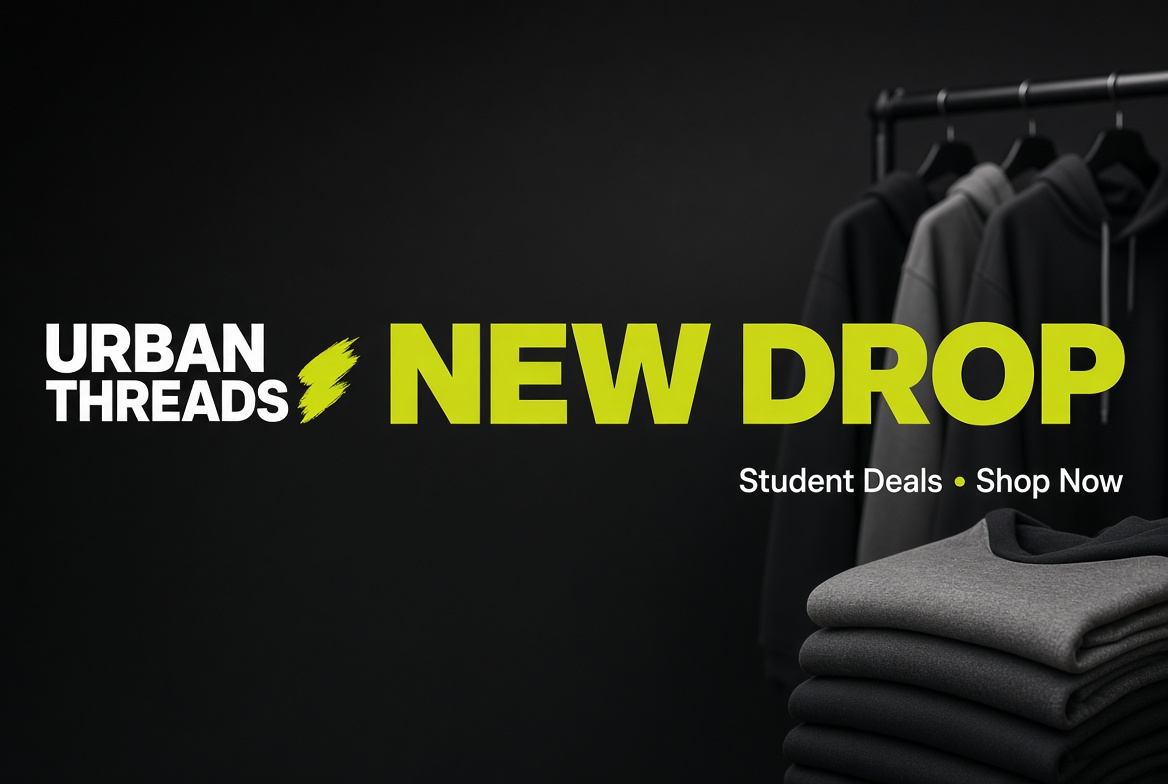
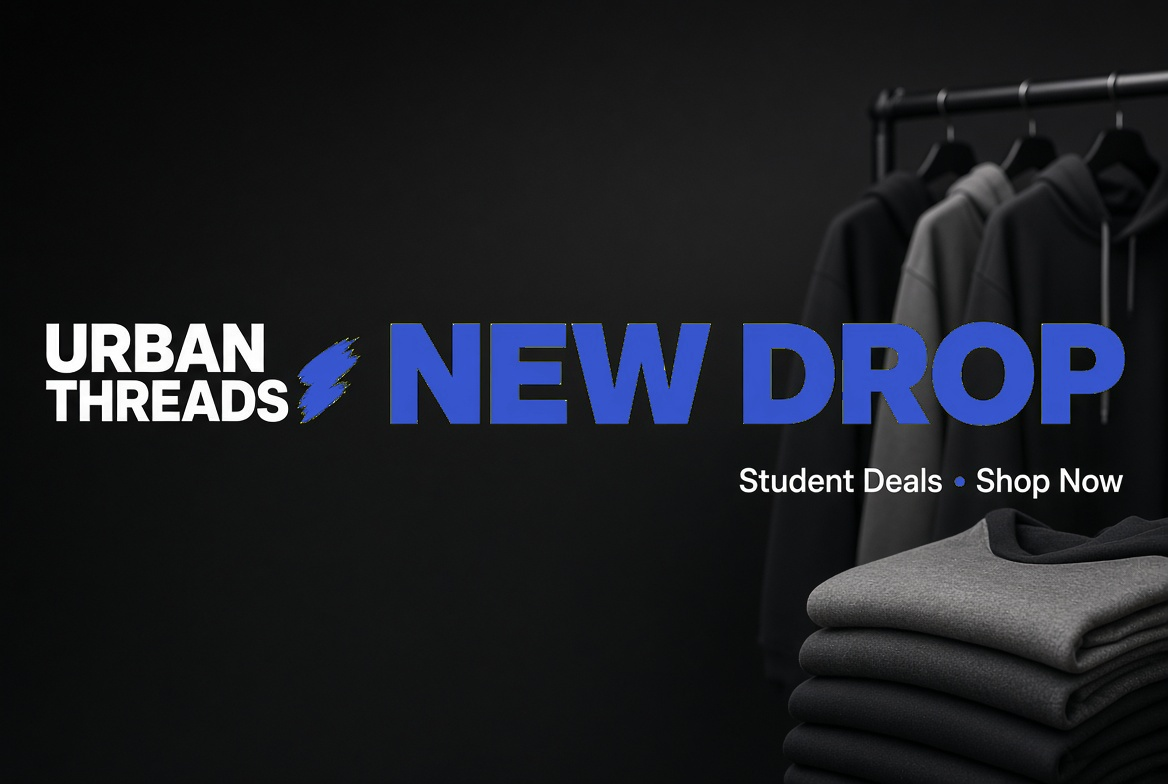
Add files via upload

Changed region(s): [[0.2466, 0.398, 0.9863, 0.551]]

diff --git a/index.html b/index.html
@@ -8,16 +8,16 @@
 <link href="https://fonts.googleapis.com/css2?family=Archivo+Black&family=Inter:wght@400;500;600;700;800&display=swap" rel="stylesheet">
 <style>
 @import url('https://fonts.googleapis.com/css2?family=Inter:wght@300;400;500;600&family=Manrope:wght@400;500;600;700&display=swap');
-:root{--black:#050505;--ink:#0b0b0b;--panel:#111;--white:#f4f4f1;--muted:#9b9b96;--line:rgba(255,255,255,.14);--lime:#c8ff3d;--red:#d9d9d4}
-*{box-sizing:border-box;margin:0;padding:0}html{scroll-behavior:smooth}body{background:var(--black);color:var(--white);font-family:Inter,Arial,sans-serif;overflow-x:hidden}a{color:inherit;text-decoration:none}img{display:block}button,input{font:inherit}.wrap{max-width:1440px;margin:auto;padding:0 42px}.accent{color:var(--lime)}
+:root{--black:#050505;--ink:#0b0b0b;--panel:#111;--white:#f4f4f1;--muted:#9b9b96;--line:rgba(255,255,255,.14);--blue:#3b5bdb;--red:#d9d9d4}
+*{box-sizing:border-box;margin:0;padding:0}html{scroll-behavior:smooth}body{background:var(--black);color:var(--white);font-family:Inter,Arial,sans-serif;overflow-x:hidden}a{color:inherit;text-decoration:none}img{display:block}button,input{font:inherit}.wrap{max-width:1440px;margin:auto;padding:0 42px}.accent{color:var(--blue)}
 h1,h2,h3,.display{font-family:Manrope,Arial,sans-serif;font-weight:500;line-height:.95;letter-spacing:-.045em;text-transform:none}
 /* ENIMAL-INSPIRED STREETWEAR LAYOUT */
-.announcement{height:34px;background:var(--lime);color:#050505;display:flex;align-items:center;overflow:hidden;white-space:nowrap;font-size:9px;font-weight:800;letter-spacing:.16em;text-transform:uppercase;border-bottom:1px solid #000}
+.announcement{height:34px;background:var(--blue);color:#fff;display:flex;align-items:center;overflow:hidden;white-space:nowrap;font-size:9px;font-weight:800;letter-spacing:.16em;text-transform:uppercase;border-bottom:1px solid #000}
 .marquee-track{display:flex;min-width:max-content;animation:marquee 22s linear infinite}
 .marquee-track span{padding-right:55px}
 @keyframes marquee{from{transform:translateX(0)}to{transform:translateX(-50%)}}
 .category-bar{display:flex;gap:25px;align-items:center;justify-content:center;padding:13px 20px;background:#080808;border-bottom:1px solid var(--line);font-size:9px;text-transform:uppercase;letter-spacing:.14em;overflow:auto;white-space:nowrap}
-.category-bar a{color:#aaa}.category-bar a:hover{color:var(--lime)}
+.category-bar a{color:#aaa}.category-bar a:hover{color:var(--blue)}
 .hero{min-height:calc(100vh - 119px)}
 .hero-art img{object-position:50% 17%;filter:brightness(.67) contrast(1.04)}
 .hero-art:after{background:linear-gradient(90deg,rgba(0,0,0,.55),rgba(0,0,0,.08) 65%),linear-gradient(0deg,rgba(0,0,0,.62),transparent 55%)}
@@ -28,7 +28,7 @@ h1,h2,h3,.display{font-family:Manrope,Arial,sans-serif;font-weight:500;line-heig
 .editorial-card:after{content:"";position:absolute;inset:0;background:linear-gradient(0deg,rgba(0,0,0,.75),transparent 55%)}
 .editorial-copy{position:absolute;z-index:2;left:30px;right:30px;bottom:30px}.editorial-copy small{font-size:8px;letter-spacing:.2em;text-transform:uppercase;color:#ccc}.editorial-copy h3{font-size:clamp(35px,4vw,62px);margin:10px 0 16px;color:#fff}.editorial-copy a{font-size:9px;letter-spacing:.15em;text-transform:uppercase;border-bottom:1px solid #aaa;padding-bottom:5px}
 .look-section{display:grid;grid-template-columns:1.45fr .55fr;gap:2px;background:#252525}.look-image{min-height:620px;position:relative;overflow:hidden}.look-image img{width:100%;height:100%;object-fit:cover;object-position:center;filter:brightness(.78)}.look-copy{background:#0d0d0d;padding:50px 38px;display:flex;flex-direction:column;justify-content:flex-end}.look-copy h2{font-size:clamp(40px,5vw,75px);margin-bottom:20px}.look-copy p{font-size:12px;line-height:1.8;color:#888;max-width:360px;margin-bottom:25px}
-.music-player{position:fixed;right:20px;bottom:72px;width:280px;z-index:121;background:rgba(10,10,10,.97);border:1px solid rgba(255,255,255,.2);box-shadow:0 18px 50px rgba(0,0,0,.5);backdrop-filter:blur(18px);display:grid;grid-template-columns:82px 1fr;gap:14px;padding:11px;transition:right .35s ease,transform .35s ease,opacity .35s ease}.music-player.hidden{transform:translateY(18px);opacity:0;pointer-events:none}.music-cover{width:82px;height:82px;object-fit:cover}.music-meta{min-width:0;display:flex;flex-direction:column;justify-content:center}.music-kicker{font-size:7px;letter-spacing:.18em;color:#888;text-transform:uppercase;margin-bottom:5px}.music-title{font-size:11px;font-weight:600;white-space:nowrap;overflow:hidden;text-overflow:ellipsis}.music-artist{font-size:8px;color:#888;margin-top:3px}.music-controls{display:flex;align-items:center;gap:9px;margin-top:10px}.music-small{background:none;border:0;color:#ddd;font-size:8px;letter-spacing:.1em;cursor:pointer;padding:0}.music-small:hover{color:var(--lime)}.music-progress{height:2px;background:#333;flex:1;overflow:hidden;cursor:pointer}.music-progress span{display:block;width:0;height:100%;background:var(--lime)}.music-player.playing .music-cover{animation:coverPulse 5s linear infinite}.music-player.playing .music-kicker:after{content:' • PLAYING';color:var(--lime)}@keyframes coverPulse{0%{transform:scale(1)}50%{transform:scale(1.025)}100%{transform:scale(1)}}.music-toggle{position:fixed;right:20px;bottom:20px;z-index:122;background:rgba(8,8,8,.96);border:1px solid #555;color:#fff;padding:11px 15px;font-size:9px;letter-spacing:.14em;text-transform:uppercase;cursor:pointer;backdrop-filter:blur(12px);transition:right .35s ease}.music-toggle:hover{border-color:var(--lime);color:var(--lime)}.music-toggle .dot{display:inline-block;width:6px;height:6px;border-radius:50%;background:#666;margin-right:8px}.music-toggle.on .dot{background:var(--lime);box-shadow:0 0 10px var(--lime)}.cart-drawer.active ~ .music-player{right:440px}.cart-drawer.active ~ .music-toggle{right:440px}
+.music-player{position:fixed;right:20px;bottom:72px;width:280px;z-index:121;background:rgba(10,10,10,.97);border:1px solid rgba(255,255,255,.2);box-shadow:0 18px 50px rgba(0,0,0,.5);backdrop-filter:blur(18px);display:grid;grid-template-columns:82px 1fr;gap:14px;padding:11px;transition:right .35s ease,transform .35s ease,opacity .35s ease}.music-player.hidden{transform:translateY(18px);opacity:0;pointer-events:none}.music-cover{width:82px;height:82px;object-fit:cover}.music-meta{min-width:0;display:flex;flex-direction:column;justify-content:center}.music-kicker{font-size:7px;letter-spacing:.18em;color:#888;text-transform:uppercase;margin-bottom:5px}.music-title{font-size:11px;font-weight:600;white-space:nowrap;overflow:hidden;text-overflow:ellipsis}.music-artist{font-size:8px;color:#888;margin-top:3px}.music-controls{display:flex;align-items:center;gap:9px;margin-top:10px}.music-small{background:none;border:0;color:#ddd;font-size:8px;letter-spacing:.1em;cursor:pointer;padding:0}.music-small:hover{color:var(--blue)}.music-progress{height:2px;background:#333;flex:1;overflow:hidden;cursor:pointer}.music-progress span{display:block;width:0;height:100%;background:var(--blue)}.music-player.playing .music-cover{animation:coverPulse 5s linear infinite}.music-player.playing .music-kicker:after{content:' • PLAYING';color:var(--blue)}@keyframes coverPulse{0%{transform:scale(1)}50%{transform:scale(1.025)}100%{transform:scale(1)}}.music-toggle{position:fixed;right:20px;bottom:20px;z-index:122;background:rgba(8,8,8,.96);border:1px solid #555;color:#fff;padding:11px 15px;font-size:9px;letter-spacing:.14em;text-transform:uppercase;cursor:pointer;backdrop-filter:blur(12px);transition:right .35s ease}.music-toggle:hover{border-color:var(--blue);color:var(--blue)}.music-toggle .dot{display:inline-block;width:6px;height:6px;border-radius:50%;background:#666;margin-right:8px}.music-toggle.on .dot{background:var(--blue);box-shadow:0 0 10px var(--blue)}.cart-drawer.active ~ .music-player{right:440px}.cart-drawer.active ~ .music-toggle{right:440px}
 /* PAGE PRELOADER */
 html.is-loading,body.is-loading{overflow:hidden;height:100%}
 .page-loader{position:fixed;inset:0;z-index:999;background:var(--black);display:flex;flex-direction:column;align-items:center;justify-content:center;gap:20px;transition:opacity .6s ease,visibility .6s ease}
@@ -45,7 +45,7 @@ html.is-loading,body.is-loading{overflow:hidden;height:100%}
 .look-hotspot .dot{position:relative;width:28px;height:28px;border-radius:50%;background:rgba(5,5,5,.8);border:1.5px solid #fff;color:#fff;font-size:11px;font-weight:700;cursor:pointer;display:flex;align-items:center;justify-content:center;transition:background .2s,border-color .2s,color .2s}
 .look-hotspot .dot:before{content:'';position:absolute;inset:-9px;border-radius:50%;border:1px solid rgba(255,255,255,.45);animation:hotspotPulse 2.4s ease-out infinite}
 @keyframes hotspotPulse{0%{transform:scale(.75);opacity:.8}100%{transform:scale(1.7);opacity:0}}
-.look-hotspot:hover .dot,.look-hotspot.active .dot{background:var(--lime);color:#000;border-color:var(--lime)}
+.look-hotspot:hover .dot,.look-hotspot.active .dot{background:var(--blue);color:#fff;border-color:var(--blue)}
 .look-hotspot .hotspot-card{position:absolute;top:38px;left:50%;transform:translateX(-50%);width:196px;background:#0c0c0c;border:1px solid var(--line);padding:15px 17px;box-shadow:0 20px 45px rgba(0,0,0,.55);opacity:0;pointer-events:none;transition:opacity .2s ease}
 .look-hotspot.active .hotspot-card{opacity:1;pointer-events:auto}
 .hotspot-card h4{font-size:11px;font-weight:600;margin-bottom:5px}
@@ -53,33 +53,33 @@ html.is-loading,body.is-loading{overflow:hidden;height:100%}
 .hotspot-card .h-actions{display:flex;gap:14px;font-size:9px;letter-spacing:.12em;text-transform:uppercase;border-top:1px solid var(--line);padding-top:11px}
 .hotspot-card .h-actions a,.hotspot-card .h-actions button{cursor:pointer;border:0;background:none;color:#ccc;padding:0;font-size:9px;letter-spacing:.12em;text-transform:uppercase;font-family:Inter}
 .hotspot-card .h-actions .h-primary{color:#fff;border-bottom:1px solid #fff}
-.hotspot-card .h-actions a:hover,.hotspot-card .h-actions .h-primary:hover{color:var(--lime);border-color:var(--lime)}
+.hotspot-card .h-actions a:hover,.hotspot-card .h-actions .h-primary:hover{color:var(--blue);border-color:var(--blue)}
 @media(min-width:901px){.collection-grid .product-card:nth-child(5){grid-column:2}.collection-grid .product-card:nth-child(6){grid-column:3}}
 @media(max-width:850px){.editorial-duo,.look-section{grid-template-columns:1fr}.editorial-card{min-height:520px}.look-image{min-height:470px}.category-bar{justify-content:flex-start}.hero-copy{padding-left:24px;padding-right:24px}.wrap,.section{padding-left:24px;padding-right:24px}}
 /* NAV — minimal luxury/editorial */
 .site-nav{height:72px;position:sticky;top:0;z-index:80;display:grid;grid-template-columns:1fr auto 1fr;align-items:center;padding:0 28px;background:rgba(5,5,5,.88);backdrop-filter:blur(18px);border-bottom:1px solid var(--line)}
-.brand{display:flex;align-items:center;gap:11px}.brand-logo-img{width:43px;height:31px;object-fit:cover}.brand .word{font-size:12px;font-weight:600;letter-spacing:.16em}.nav-links{display:flex;gap:27px;justify-content:center;font-size:11px;text-transform:uppercase;letter-spacing:.13em;color:#c8c8c3}.nav-links a{transition:opacity .2s}.nav-links a:hover{opacity:.55}.nav-actions{display:flex;justify-content:flex-end;align-items:center;gap:20px}.icon-btn{width:19px;height:19px;color:var(--white);cursor:pointer;position:relative}.cart-count{position:absolute;top:-8px;right:-9px;background:var(--lime);color:#000;font-size:8px;font-weight:800;width:15px;height:15px;border-radius:50%;display:flex;align-items:center;justify-content:center}.btn-outline{border:0;border-bottom:1px solid #aaa;padding:3px 0;border-radius:0;font-size:10px;letter-spacing:.13em;background:transparent;color:var(--white);cursor:pointer}.btn-outline:hover{border-color:var(--lime);color:var(--lime)}
+.brand{display:flex;align-items:center;gap:11px}.brand-logo-img{width:43px;height:31px;object-fit:cover}.brand .word{font-size:12px;font-weight:600;letter-spacing:.16em}.nav-links{display:flex;gap:27px;justify-content:center;font-size:11px;text-transform:uppercase;letter-spacing:.13em;color:#c8c8c3}.nav-links a{transition:opacity .2s}.nav-links a:hover{opacity:.55}.nav-actions{display:flex;justify-content:flex-end;align-items:center;gap:20px}.icon-btn{width:19px;height:19px;color:var(--white);cursor:pointer;position:relative}.cart-count{position:absolute;top:-8px;right:-9px;background:var(--blue);color:#fff;font-size:8px;font-weight:800;width:15px;height:15px;border-radius:50%;display:flex;align-items:center;justify-content:center}.btn-outline{border:0;border-bottom:1px solid #aaa;padding:3px 0;border-radius:0;font-size:10px;letter-spacing:.13em;background:transparent;color:var(--white);cursor:pointer}.btn-outline:hover{border-color:var(--blue);color:var(--blue)}
 /* HERO */
-.hero{min-height:calc(100vh - 72px);position:relative;display:flex;align-items:flex-end;overflow:hidden;background:#080808}.hero-art{position:absolute;inset:0;width:100%;height:100%;z-index:0}.hero-art img{width:100%;height:100%;object-fit:cover;object-position:50% 22%;filter:brightness(.54) contrast(1.08);transform:none;border-radius:0;box-shadow:none}.hero-art:after{content:"";position:absolute;inset:0;background:linear-gradient(90deg,rgba(0,0,0,.78) 0%,rgba(0,0,0,.32) 48%,rgba(0,0,0,.18) 100%),linear-gradient(0deg,rgba(0,0,0,.72) 0%,transparent 48%)}.hero-copy{position:relative;z-index:3;max-width:730px;padding:0 42px 72px}.hero-eyebrow{display:block;background:none;color:#ddd;font-size:10px;letter-spacing:.2em;text-transform:uppercase;padding:0;margin-bottom:22px;font-family:Inter;font-weight:500}.hero h1{font-size:clamp(58px,8vw,126px);font-weight:400;margin-bottom:22px;color:#fff}.hero-sub{font-size:15px;line-height:1.65;color:#ddd;max-width:470px;margin-bottom:29px}.btn-primary{display:inline-flex;align-items:center;gap:12px;background:var(--white);color:#050505;font-size:10px;text-transform:uppercase;letter-spacing:.14em;padding:14px 22px;border:0;border-radius:0;cursor:pointer;font-weight:600}.btn-primary:hover{background:var(--lime)}.scroll-hint{margin-top:55px;font-size:9px;letter-spacing:.2em;color:#aaa}.photo-label{position:absolute;z-index:4;right:35px;bottom:28px;font-size:9px;letter-spacing:.18em;color:#ddd}.halftone-corner{display:none}
+.hero{min-height:calc(100vh - 72px);position:relative;display:flex;align-items:flex-end;overflow:hidden;background:#080808}.hero-art{position:absolute;inset:0;width:100%;height:100%;z-index:0}.hero-art img{width:100%;height:100%;object-fit:cover;object-position:50% 22%;filter:brightness(.54) contrast(1.08);transform:none;border-radius:0;box-shadow:none}.hero-art:after{content:"";position:absolute;inset:0;background:linear-gradient(90deg,rgba(0,0,0,.78) 0%,rgba(0,0,0,.32) 48%,rgba(0,0,0,.18) 100%),linear-gradient(0deg,rgba(0,0,0,.72) 0%,transparent 48%)}.hero-copy{position:relative;z-index:3;max-width:730px;padding:0 42px 72px}.hero-eyebrow{display:block;background:none;color:#ddd;font-size:10px;letter-spacing:.2em;text-transform:uppercase;padding:0;margin-bottom:22px;font-family:Inter;font-weight:500}.hero h1{font-size:clamp(58px,8vw,126px);font-weight:400;margin-bottom:22px;color:#fff}.hero-sub{font-size:15px;line-height:1.65;color:#ddd;max-width:470px;margin-bottom:29px}.btn-primary{display:inline-flex;align-items:center;gap:12px;background:var(--white);color:#050505;font-size:10px;text-transform:uppercase;letter-spacing:.14em;padding:14px 22px;border:0;border-radius:0;cursor:pointer;font-weight:600}.btn-primary:hover{background:var(--blue);color:#fff}.scroll-hint{margin-top:55px;font-size:9px;letter-spacing:.2em;color:#aaa}.photo-label{position:absolute;z-index:4;right:35px;bottom:28px;font-size:9px;letter-spacing:.18em;color:#ddd}.halftone-corner{display:none}
 /* EDITORIAL STRIP */
 .features{display:grid;grid-template-columns:repeat(4,1fr);background:#090909;border-top:1px solid var(--line);border-bottom:1px solid var(--line)}.feature{background:#090909;padding:28px 30px 30px;min-height:128px;border-right:1px solid var(--line);display:flex;flex-direction:column;gap:9px}.feature:last-child{border-right:0}.feature .icon{display:none}.feature h3{font-family:Inter;font-size:10px;text-transform:uppercase;letter-spacing:.16em;font-weight:500;color:#e7e7e2}.feature p{font-size:12px;color:#8e8e89;line-height:1.5}
 /* SECTIONS */
 .section{padding:118px 42px}.section-tag{font-size:9px;text-transform:uppercase;letter-spacing:.2em;color:#858580;margin-bottom:17px}.section-title{font-size:clamp(40px,5vw,72px);font-weight:400;margin-bottom:19px}.section-desc{font-size:13px;color:#8e8e89;line-height:1.7;max-width:470px;margin-bottom:54px}
 /* PRODUCT GRID */
-.collection-grid{display:grid;grid-template-columns:repeat(4,1fr);gap:2px;background:#252525}.product-card{background:#0c0c0c;border:0;border-radius:0;overflow:hidden;display:flex;flex-direction:column}.product-art{position:relative;height:430px;background:#141414;display:block;overflow:hidden}.product-art img{width:100%;height:100%;object-fit:cover;object-position:center top;filter:brightness(.86);transition:transform .6s ease,filter .4s}.product-card:hover .product-art img{transform:scale(1.035);filter:brightness(1)}.badge{position:absolute;top:15px;left:15px;font-size:8px;padding:0;background:none;border:0;border-radius:0;letter-spacing:.16em;color:#eee;font-weight:500;z-index:2}.badge.new,.badge.best,.badge.limited{background:none;color:#eee}.product-info{padding:17px 14px 24px;display:grid;grid-template-columns:1fr auto;gap:5px 12px}.product-info h3{font-family:Inter;text-transform:none;font-weight:500;font-size:12px;letter-spacing:0}.product-info .color{font-size:10px;color:#777;grid-column:1}.product-info .price{font-family:Inter;font-size:11px;margin:0;grid-column:2;grid-row:1/3;align-self:start}.product-actions{grid-column:1/-1;display:flex;gap:15px;margin-top:13px;border-top:1px solid var(--line);padding-top:12px}.btn-mini-primary,.btn-mini-outline{flex:0 0 auto;padding:0;border:0;border-bottom:1px solid #777;border-radius:0;background:none;color:#ddd;font-size:9px;letter-spacing:.13em;font-weight:500}.btn-mini-primary{border-color:#ddd;color:#fff}.btn-mini-primary:hover,.btn-mini-outline:hover{border-color:var(--lime);color:var(--lime)}
+.collection-grid{display:grid;grid-template-columns:repeat(4,1fr);gap:2px;background:#252525}.product-card{background:#0c0c0c;border:0;border-radius:0;overflow:hidden;display:flex;flex-direction:column}.product-art{position:relative;height:430px;background:#141414;display:block;overflow:hidden}.product-art img{width:100%;height:100%;object-fit:cover;object-position:center top;filter:brightness(.86);transition:transform .6s ease,filter .4s}.product-card:hover .product-art img{transform:scale(1.035);filter:brightness(1)}.badge{position:absolute;top:15px;left:15px;font-size:8px;padding:0;background:none;border:0;border-radius:0;letter-spacing:.16em;color:#eee;font-weight:500;z-index:2}.badge.new,.badge.best,.badge.limited{background:none;color:#eee}.product-info{padding:17px 14px 24px;display:grid;grid-template-columns:1fr auto;gap:5px 12px}.product-info h3{font-family:Inter;text-transform:none;font-weight:500;font-size:12px;letter-spacing:0}.product-info .color{font-size:10px;color:#777;grid-column:1}.product-info .price{font-family:Inter;font-size:11px;margin:0;grid-column:2;grid-row:1/3;align-self:start}.product-actions{grid-column:1/-1;display:flex;gap:15px;margin-top:13px;border-top:1px solid var(--line);padding-top:12px}.btn-mini-primary,.btn-mini-outline{flex:0 0 auto;padding:0;border:0;border-bottom:1px solid #777;border-radius:0;background:none;color:#ddd;font-size:9px;letter-spacing:.13em;font-weight:500}.btn-mini-primary{border-color:#ddd;color:#fff}.btn-mini-primary:hover,.btn-mini-outline:hover{border-color:var(--blue);color:var(--blue)}
 /* ABOUT / EDITORIAL */
-.about{display:grid;grid-template-columns:1.1fr .9fr;gap:90px;align-items:center}.about-art{width:100%;position:relative}.about-art img{width:100%;height:620px;object-fit:cover;object-position:center;border-radius:0;box-shadow:none;filter:brightness(.72)}.about-stamp{position:absolute;bottom:20px;left:20px;font-size:9px;letter-spacing:.18em;line-height:1.5;color:#eee}.about-copy{max-width:520px}.about-copy p{font-size:14px;color:#aaa;line-height:1.85;margin-bottom:19px}.link-cta{display:inline-flex;margin-top:16px;font-size:10px;letter-spacing:.16em;text-transform:uppercase;border-bottom:1px solid #777;padding-bottom:5px}.link-cta:hover{color:var(--lime);border-color:var(--lime)}
+.about{display:grid;grid-template-columns:1.1fr .9fr;gap:90px;align-items:center}.about-art{width:100%;position:relative}.about-art img{width:100%;height:620px;object-fit:cover;object-position:center;border-radius:0;box-shadow:none;filter:brightness(.72)}.about-stamp{position:absolute;bottom:20px;left:20px;font-size:9px;letter-spacing:.18em;line-height:1.5;color:#eee}.about-copy{max-width:520px}.about-copy p{font-size:14px;color:#aaa;line-height:1.85;margin-bottom:19px}.link-cta{display:inline-flex;margin-top:16px;font-size:10px;letter-spacing:.16em;text-transform:uppercase;border-bottom:1px solid #777;padding-bottom:5px}.link-cta:hover{color:var(--blue);border-color:var(--blue)}
 /* CTA */
 .cta-band{text-align:center;padding:150px 32px;background:#0a0a0a;border-top:1px solid var(--line);border-bottom:1px solid var(--line)}.cta-band .section-tag{display:block}.cta-band h2{font-size:clamp(48px,7vw,105px);font-weight:400;margin:14px 0 35px}.cta-band .btn-primary{margin:auto}
 /* MARKETING */
-.marketing-grid{display:grid;grid-template-columns:repeat(3,1fr);gap:2px;background:#252525}.marketing-card{background:#0c0c0c;border:0;border-radius:0;padding:0;display:flex;flex-direction:column;overflow:hidden}.marketing-card .deliverable-thumb{width:100%;height:420px;object-fit:cover;transition:transform .6s ease;filter:brightness(.78)}.marketing-card:hover .deliverable-thumb{transform:scale(1.025);filter:brightness(1)}.deliverable-body{padding:20px 18px 24px}.marketing-card .num{font-size:8px;color:#999;letter-spacing:.18em;margin-bottom:10px}.marketing-card h3{font-family:Inter;text-transform:none;font-weight:500;font-size:13px}.marketing-card p{font-size:11px;color:#777;line-height:1.6;margin-top:7px}.marketing-card .dims{font-size:8px;color:#777;letter-spacing:.12em;margin-top:15px}.marketing-card .view{margin-top:18px;font-size:9px;letter-spacing:.14em;text-transform:uppercase}.marketing-card:hover .view{color:var(--lime)}
+.marketing-grid{display:grid;grid-template-columns:repeat(3,1fr);gap:2px;background:#252525}.marketing-card{background:#0c0c0c;border:0;border-radius:0;padding:0;display:flex;flex-direction:column;overflow:hidden}.marketing-card .deliverable-thumb{width:100%;height:420px;object-fit:cover;transition:transform .6s ease;filter:brightness(.78)}.marketing-card:hover .deliverable-thumb{transform:scale(1.025);filter:brightness(1)}.deliverable-body{padding:20px 18px 24px}.marketing-card .num{font-size:8px;color:#999;letter-spacing:.18em;margin-bottom:10px}.marketing-card h3{font-family:Inter;text-transform:none;font-weight:500;font-size:13px}.marketing-card p{font-size:11px;color:#777;line-height:1.6;margin-top:7px}.marketing-card .dims{font-size:8px;color:#777;letter-spacing:.12em;margin-top:15px}.marketing-card .view{margin-top:18px;font-size:9px;letter-spacing:.14em;text-transform:uppercase}.marketing-card:hover .view{color:var(--blue)}
 /* NEWSLETTER */
 .newsletter{margin:0;padding:95px 42px;background:#0a0a0a;border-top:1px solid var(--line);display:flex;align-items:flex-end;justify-content:space-between;gap:50px}.newsletter h2{font-size:clamp(38px,5vw,66px);font-weight:400;margin-bottom:14px}.newsletter p{font-size:12px;color:#888;line-height:1.7;max-width:430px}.newsletter-form{display:flex;gap:0;min-width:420px}.newsletter-form input{width:280px;padding:14px 15px;border:0;border-bottom:1px solid #666;border-radius:0;background:transparent;color:#fff;font-size:12px}.newsletter-form .btn-primary{padding:14px 18px}
 /* FOOTER */
-footer{border-top:1px solid var(--line);padding:58px 42px 28px;background:#050505}.footer-grid{display:grid;grid-template-columns:2fr 1fr 1fr;gap:50px;margin-bottom:58px}.footer-logo-img{width:44px;height:32px;object-fit:cover}.footer-brand .word{font-size:12px;letter-spacing:.16em;margin:15px 0 9px}.footer-brand p{font-size:11px;color:#777;line-height:1.6;max-width:270px}footer h4{font-size:8px;letter-spacing:.18em;color:#777;margin-bottom:16px}footer ul{list-style:none;display:flex;flex-direction:column;gap:10px}footer ul a{font-size:11px;color:#bbb}footer ul a:hover{color:var(--lime)}.footer-bottom{display:none}
+footer{border-top:1px solid var(--line);padding:58px 42px 28px;background:#050505}.footer-grid{display:grid;grid-template-columns:2fr 1fr 1fr;gap:50px;margin-bottom:58px}.footer-logo-img{width:44px;height:32px;object-fit:cover}.footer-brand .word{font-size:12px;letter-spacing:.16em;margin:15px 0 9px}.footer-brand p{font-size:11px;color:#777;line-height:1.6;max-width:270px}footer h4{font-size:8px;letter-spacing:.18em;color:#777;margin-bottom:16px}footer ul{list-style:none;display:flex;flex-direction:column;gap:10px}footer ul a{font-size:11px;color:#bbb}footer ul a:hover{color:var(--blue)}.footer-bottom{display:none}
 /* MODALS */
-.overlay{position:fixed;inset:0;background:rgba(0,0,0,.78);backdrop-filter:blur(8px);display:none;align-items:center;justify-content:center;z-index:100}.overlay.active{display:flex}.modal{background:#0d0d0d;border:1px solid var(--line);border-radius:0;width:390px;padding:38px 32px;position:relative}.modal .close{position:absolute;top:17px;right:20px;cursor:pointer;color:#777;font-size:18px}.modal h2{font-size:31px;font-weight:400;margin-bottom:9px}.modal .sub{font-size:11px;color:#777;line-height:1.5;margin-bottom:25px}.modal label{display:block;font-size:8px;letter-spacing:.15em;color:#777;margin-bottom:6px;text-transform:uppercase}.modal .field{width:100%;padding:12px 0;margin-bottom:17px;border:0;border-bottom:1px solid #444;border-radius:0;background:transparent;color:#fff;font-size:13px}.modal .switch{margin-top:18px;font-size:11px;color:#777;text-align:center}.modal .switch span{color:var(--lime);font-weight:600;cursor:pointer}.size-options{display:grid;grid-template-columns:repeat(3,1fr);gap:2px;margin-bottom:22px}.size-opt{border:1px solid #333;padding:12px 0;text-align:center;font-size:11px;cursor:pointer}.size-opt.selected{background:var(--lime);color:#000;border-color:var(--lime)}.cart-drawer{position:fixed;top:0;right:-440px;width:420px;height:100%;background:#0b0b0b;border-left:1px solid var(--line);z-index:110;transition:right .35s ease;display:flex;flex-direction:column;padding:30px 26px}.cart-drawer.active{right:0}.cart-header{display:flex;justify-content:space-between;align-items:center;margin-bottom:24px}.cart-items{flex:1;overflow-y:auto;display:flex;flex-direction:column;gap:14px}.cart-empty{color:#777;font-size:12px;text-align:center;margin-top:60px}.cart-item{display:flex;gap:12px;border-bottom:1px solid var(--line);padding-bottom:14px}.cart-item svg{width:44px;height:50px;flex-shrink:0;color:var(--lime)}.cart-item .name{font-size:12px;font-weight:500}.cart-item .meta{font-size:10px;color:#777}.cart-total{display:flex;justify-content:space-between;font-size:12px;font-weight:600;padding-top:20px;border-top:1px solid var(--line);margin-top:18px}.toast{position:fixed;bottom:25px;left:50%;transform:translateX(-50%) translateY(15px);background:#f4f4f1;color:#050505;padding:11px 18px;font-size:10px;letter-spacing:.08em;opacity:0;pointer-events:none;transition:.25s;z-index:150}.toast.show{opacity:1;transform:translateX(-50%) translateY(0)}
-.menu-panel{position:fixed;inset:0;background:rgba(5,5,5,.97);z-index:75;display:none;align-items:stretch}.menu-panel.active{display:flex}.menu-panel-inner{width:100%;padding:28px 42px 50px;display:flex;flex-direction:column}.menu-panel-head{display:flex;justify-content:space-between;align-items:center;font-size:9px;letter-spacing:.18em;color:#777;margin-bottom:80px}.menu-panel-head button{border:0;background:none;color:#eee;font-size:9px;letter-spacing:.16em;cursor:pointer}.menu-panel-inner>a{font-family:Manrope,Arial,sans-serif;font-size:clamp(38px,6vw,84px);font-weight:400;letter-spacing:-.04em;padding:12px 0;border-bottom:1px solid #222}.menu-panel-inner>a:hover{color:var(--lime);padding-left:12px}@media(max-width:560px){.cart-drawer.active ~ .music-player{right:20px;bottom:76px;width:calc(100% - 40px)}.cart-drawer.active ~ .music-toggle{right:20px;bottom:20px}.menu-panel-inner{padding:22px 20px 40px}.menu-panel-head{margin-bottom:45px}.menu-panel-inner>a{font-size:40px}}
+.overlay{position:fixed;inset:0;background:rgba(0,0,0,.78);backdrop-filter:blur(8px);display:none;align-items:center;justify-content:center;z-index:100}.overlay.active{display:flex}.modal{background:#0d0d0d;border:1px solid var(--line);border-radius:0;width:390px;padding:38px 32px;position:relative}.modal .close{position:absolute;top:17px;right:20px;cursor:pointer;color:#777;font-size:18px}.modal h2{font-size:31px;font-weight:400;margin-bottom:9px}.modal .sub{font-size:11px;color:#777;line-height:1.5;margin-bottom:25px}.modal label{display:block;font-size:8px;letter-spacing:.15em;color:#777;margin-bottom:6px;text-transform:uppercase}.modal .field{width:100%;padding:12px 0;margin-bottom:17px;border:0;border-bottom:1px solid #444;border-radius:0;background:transparent;color:#fff;font-size:13px}.modal .switch{margin-top:18px;font-size:11px;color:#777;text-align:center}.modal .switch span{color:var(--blue);font-weight:600;cursor:pointer}.size-options{display:grid;grid-template-columns:repeat(3,1fr);gap:2px;margin-bottom:22px}.size-opt{border:1px solid #333;padding:12px 0;text-align:center;font-size:11px;cursor:pointer}.size-opt.selected{background:var(--blue);color:#fff;border-color:var(--blue)}.cart-drawer{position:fixed;top:0;right:-440px;width:420px;height:100%;background:#0b0b0b;border-left:1px solid var(--line);z-index:110;transition:right .35s ease;display:flex;flex-direction:column;padding:30px 26px}.cart-drawer.active{right:0}.cart-header{display:flex;justify-content:space-between;align-items:center;margin-bottom:24px}.cart-items{flex:1;overflow-y:auto;display:flex;flex-direction:column;gap:14px}.cart-empty{color:#777;font-size:12px;text-align:center;margin-top:60px}.cart-item{display:flex;gap:12px;border-bottom:1px solid var(--line);padding-bottom:14px}.cart-item svg{width:44px;height:50px;flex-shrink:0;color:var(--blue)}.cart-item .name{font-size:12px;font-weight:500}.cart-item .meta{font-size:10px;color:#777}.cart-total{display:flex;justify-content:space-between;font-size:12px;font-weight:600;padding-top:20px;border-top:1px solid var(--line);margin-top:18px}.toast{position:fixed;bottom:25px;left:50%;transform:translateX(-50%) translateY(15px);background:#f4f4f1;color:#050505;padding:11px 18px;font-size:10px;letter-spacing:.08em;opacity:0;pointer-events:none;transition:.25s;z-index:150}.toast.show{opacity:1;transform:translateX(-50%) translateY(0)}
+.menu-panel{position:fixed;inset:0;background:rgba(5,5,5,.97);z-index:75;display:none;align-items:stretch}.menu-panel.active{display:flex}.menu-panel-inner{width:100%;padding:28px 42px 50px;display:flex;flex-direction:column}.menu-panel-head{display:flex;justify-content:space-between;align-items:center;font-size:9px;letter-spacing:.18em;color:#777;margin-bottom:80px}.menu-panel-head button{border:0;background:none;color:#eee;font-size:9px;letter-spacing:.16em;cursor:pointer}.menu-panel-inner>a{font-family:Manrope,Arial,sans-serif;font-size:clamp(38px,6vw,84px);font-weight:400;letter-spacing:-.04em;padding:12px 0;border-bottom:1px solid #222}.menu-panel-inner>a:hover{color:var(--blue);padding-left:12px}@media(max-width:560px){.cart-drawer.active ~ .music-player{right:20px;bottom:76px;width:calc(100% - 40px)}.cart-drawer.active ~ .music-toggle{right:20px;bottom:20px}.menu-panel-inner{padding:22px 20px 40px}.menu-panel-head{margin-bottom:45px}.menu-panel-inner>a{font-size:40px}}
 @media(max-width:900px){.site-nav{grid-template-columns:1fr auto}.nav-links{display:none}.nav-actions{gap:13px}.nav-actions .icon-btn:nth-child(1),.nav-actions .icon-btn:nth-child(2){display:none}.hero{min-height:78vh}.hero-copy{padding:0 24px 48px}.hero h1{font-size:64px}.features{grid-template-columns:repeat(2,1fr)}.feature:nth-child(2){border-right:0}.collection-grid{grid-template-columns:repeat(2,1fr)}.product-art{height:360px}.about{grid-template-columns:1fr;gap:50px}.about-art img{height:520px}.marketing-grid{grid-template-columns:1fr}.marketing-card .deliverable-thumb{height:auto;max-height:620px}.newsletter{display:block;padding:75px 28px}.newsletter-form{margin-top:35px;min-width:0;width:100%}.newsletter-form input{flex:1}.footer-grid{grid-template-columns:1fr 1fr}.footer-brand{grid-column:1/-1}}
 @media(max-width:560px){.wrap{padding:0 20px}.site-nav{padding:0 17px}.brand .word{display:none}.hero-copy{padding:0 20px 38px}.hero h1{font-size:52px}.hero-sub{font-size:13px}.scroll-hint{margin-top:35px}.features{grid-template-columns:1fr}.feature{border-right:0!important;border-bottom:1px solid var(--line)}.section{padding:78px 20px}.collection-grid{grid-template-columns:1fr}.product-art{height:470px}.about-art img{height:430px}.cta-band{padding:100px 20px}.marketing-grid{grid-template-columns:1fr}.newsletter{padding:65px 20px}.newsletter-form{display:block}.newsletter-form input{width:100%;margin-bottom:10px}.newsletter-form .btn-primary{width:100%;justify-content:center}.footer-grid{grid-template-columns:1fr}.footer-brand{grid-column:auto}.cart-drawer{width:100%;right:-100%}}
 </style>
